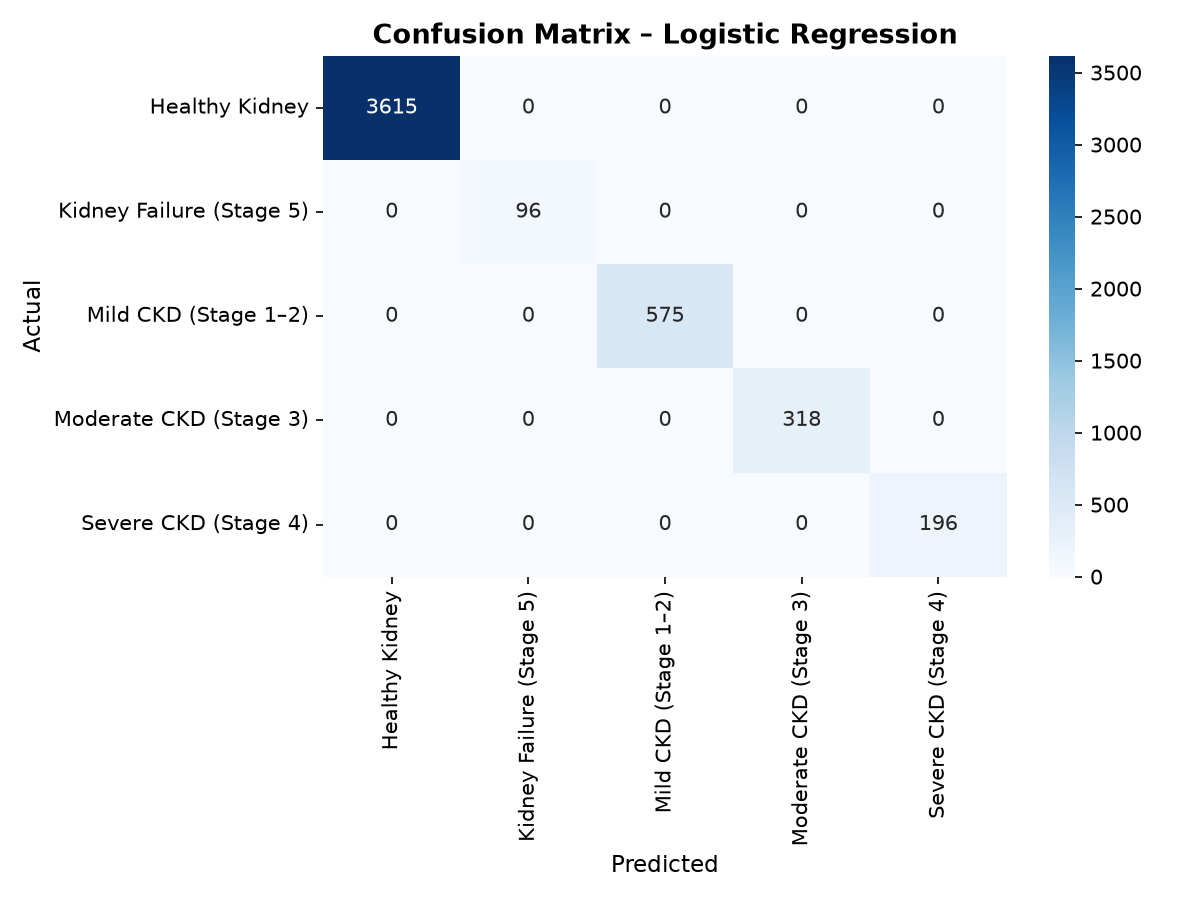
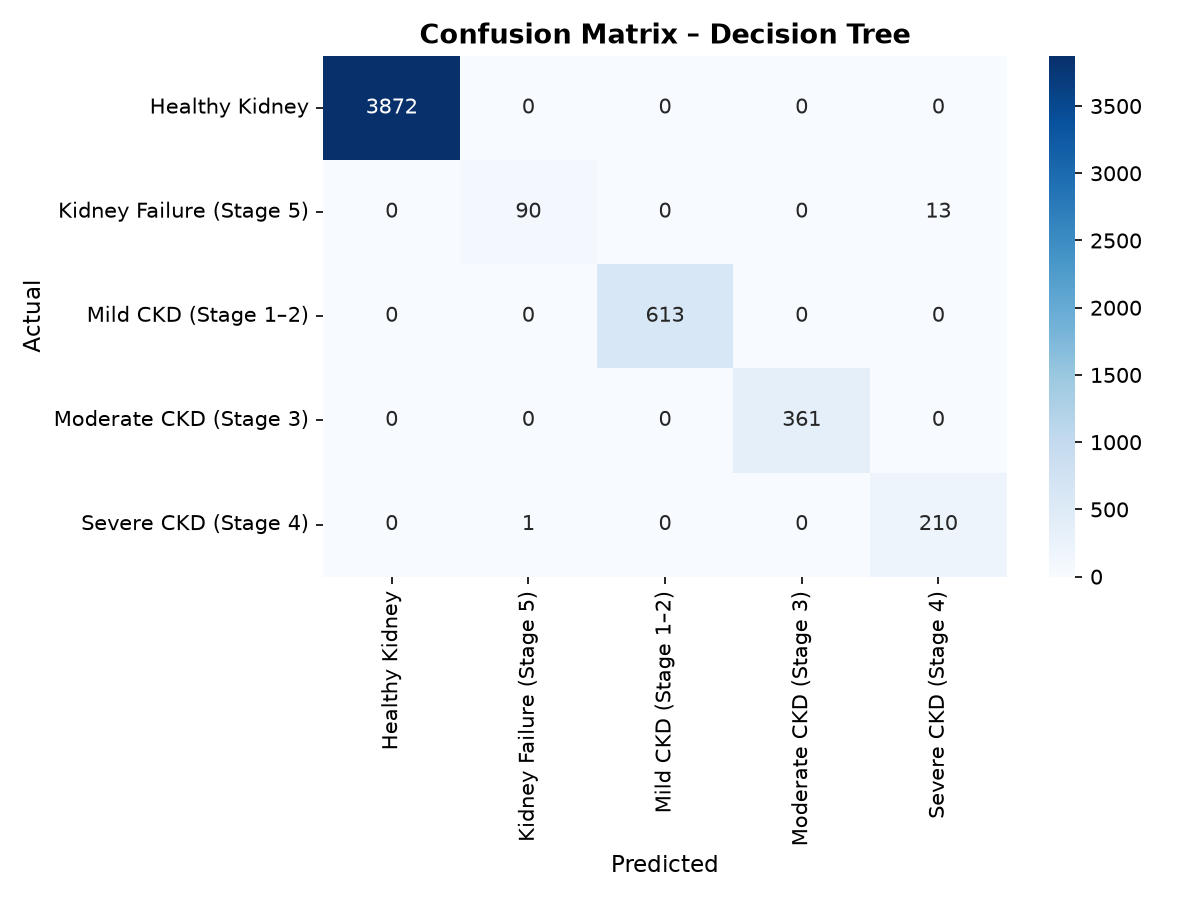
updated

diff --git a/project/train_model.py b/project/train_model.py
@@ -1,4 +1,4 @@
-# train_model.py
+ #train_model.py
 # ─────────────────────────────────────────────────────────────────────────────
 # Stand-alone script to train, evaluate, and save the best CKD classifier.
 # Run:  python train_model.py
@@ -21,6 +21,7 @@ from sklearn.tree             import DecisionTreeClassifier
 from sklearn.ensemble         import RandomForestClassifier, GradientBoostingClassifier
 from sklearn.metrics          import (accuracy_score, precision_score, recall_score,
                                       f1_score, confusion_matrix, classification_report)
+from sklearn.model_selection  import train_test_split, cross_val_score
 
 warnings.filterwarnings("ignore")
 
@@ -47,7 +48,12 @@ def train_and_evaluate():
     train_raw = load_data(TRAIN_PATH)
     test_raw  = load_data(TEST_PATH)
 
-    q = check_data_quality(train_raw)
+    full_data = pd.concat([train_raw, test_raw], ignore_index=True)
+    train_split, test_split = train_test_split(
+        full_data, test_size=0.2, random_state=42, stratify=full_data["Target"]
+    )
+
+    q = check_data_quality(train_split)
     print(f"  Training set  : {q['shape'][0]:,} rows × {q['shape'][1]} cols")
     print(f"  Missing values: {q['total_missing']}")
     print(f"  Duplicate rows: {q['duplicate_rows']}")
@@ -55,23 +61,24 @@ def train_and_evaluate():
     # ── 2. Full Preprocessing ─────────────────────────────────────────────
     print("\n[2/5] Preprocessing ...")
     X_train, X_test, y_train, y_test, encoders, scaler, class_names = \
-        preprocess_pipeline(TRAIN_PATH, TEST_PATH)
-    print("\n===== FEATURE CHECK =====")
-    print("Target column in X_train:", "Target" in X_train.columns)
-    print("Number of features:", len(X_train.columns))
-    print("Feature names:")
-    print(list(X_train.columns))
-    print("=========================\n")
+        preprocess_pipeline(train_split, test_split)
 
-    print(f"  Features : {X_train.shape[1]}")
+    print("\n===== FEATURE CHECK =====")
+    print(f"Target column in X_train: {'Target' in X_train.columns}")
+    print(f"Number of features: {X_train.shape[1]}")
+    print("Feature names:")
+    for col in X_train.columns:
+        print(f"  - {col}")
+    print()
+
     print(f"  Classes  : {class_names}")
 
     # ── 3. Define Models ──────────────────────────────────────────────────
     print("\n[3/5] Training classifiers ...")
     models = {
         "Logistic Regression":  LogisticRegression(max_iter=500, random_state=42, n_jobs=-1),
-        "Decision Tree":        DecisionTreeClassifier(max_depth=10, random_state=42),
         "Random Forest":        RandomForestClassifier(n_estimators=100, random_state=42, n_jobs=-1),
+        "Decision Tree":        DecisionTreeClassifier(max_depth=10, random_state=42),
         "Gradient Boosting":    GradientBoostingClassifier(n_estimators=100, random_state=42),
     }
 
@@ -99,7 +106,7 @@ def train_and_evaluate():
             "y_pred":    y_pred,
             "time_s":    round(time.time() - t0, 2),
         }
-        print(f"  {name:<25}  Acc={acc:.4f}  F1={f1:.4f}  ({results[name]['time_s']}s)")
+        print(f"  {name:<25}  Acc={acc:.4f}  Prec={prec:.4f}  Rec={rec:.4f}  F1={f1:.4f}  ({results[name]['time_s']}s)")
 
         if f1 > best_f1:
             best_f1    = f1
@@ -108,6 +115,22 @@ def train_and_evaluate():
 
     # ── 4. Save Best Model Bundle ─────────────────────────────────────────
     print(f"\n[4/5] Best model -> {best_name}  (F1={best_f1:.4f})")
+
+    print("\nRunning 5-Fold Cross Validation...")
+    cv_scores = cross_val_score(
+        best_model,
+        X_train,
+        y_train,
+        cv=5,
+        scoring="accuracy",
+        n_jobs=-1
+    )
+
+    print("\nCross Validation Scores:")
+    print(cv_scores)
+
+    print(f"\nAverage CV Accuracy : {cv_scores.mean():.4f}")
+    print(f"Standard Deviation  : {cv_scores.std():.4f}\n")
 
     # Build comparison metrics (exclude model/y_pred objects)
     comparison_metrics = {
@@ -129,19 +152,29 @@ def train_and_evaluate():
         "scaler":             scaler,
         "classes":            class_names,
         "features":           list(X_train.columns),
-        
-        
+        "cv_scores":          cv_scores.tolist(),
+        "cv_mean_accuracy":   float(cv_scores.mean()),
+        "cv_std_accuracy":    float(cv_scores.std()),
+        "metrics": {
+            "accuracy":       results[best_name]["accuracy"],
+            "precision":      results[best_name]["precision"],
+            "recall":         results[best_name]["recall"],
+            "f1_score":       results[best_name]["f1_score"],
+        },
+        "comparison_metrics": comparison_metrics,
+        "confusion_matrix":   cm,
+        "classification_report": report_str,
+        "class_distribution": train_split["Target"].value_counts().to_dict(),
+        "feature_names":      list(X_train.columns),
+        "train_shape":        train_split.shape,
+        "test_shape":         test_split.shape,
     }
 
     joblib.dump(bundle, MODEL_PATH)
-    
-    joblib.load(MODEL_PATH)
-    print("Bundle loaded successfully!")
-
-    print(f"  Saved → {MODEL_PATH}")
+    print(f"  Saved -> {MODEL_PATH}")
 
     # ── 5. Save Assets ────────────────────────────────────────────────────
-    print("\n[5/5] Generating plots …")
+    print("\n[5/5] Generating plots...")
 
     # Confusion Matrix
     fig, ax = plt.subplots(figsize=(8, 6))
@@ -154,7 +187,7 @@ def train_and_evaluate():
     cm_path = os.path.join(ASSETS_DIR, "confusion_matrix.png")
     fig.savefig(cm_path, dpi=150)
     plt.close(fig)
-    print(f"  Confusion matrix → {cm_path}")
+    print(f"  Confusion matrix -> {cm_path}")
 
     # Model Comparison Bar Chart
     metric_df = pd.DataFrame(
@@ -172,7 +205,24 @@ def train_and_evaluate():
     comp_path = os.path.join(ASSETS_DIR, "model_comparison.png")
     fig.savefig(comp_path, dpi=150)
     plt.close(fig)
-    print(f"  Model comparison → {comp_path}")
+    print(f"  Model comparison -> {comp_path}")
+
+    # Feature Importance (if applicable)
+    if hasattr(best_model, "feature_importances_"):
+        importances = best_model.feature_importances_
+        indices = np.argsort(importances)[::-1][:15] # Top 15
+        top_features = [list(X_train.columns)[i] for i in indices]
+        top_importances = importances[indices]
+        
+        fig, ax = plt.subplots(figsize=(10, 6))
+        sns.barplot(x=top_importances, y=top_features, ax=ax, palette="viridis")
+        ax.set_title("Top 15 Feature Importances", fontsize=13, fontweight="bold")
+        ax.set_xlabel("Importance Score")
+        plt.tight_layout()
+        fi_path = os.path.join(ASSETS_DIR, "feature_importance.png")
+        fig.savefig(fi_path, dpi=150)
+        plt.close(fig)
+        print(f"  Feature importance -> {fi_path}")
 
     print("\n" + "=" * 70)
     print("  Training complete!")

diff --git a/project/ckd_utils/preprocessing.py b/project/ckd_utils/preprocessing.py
@@ -1,3 +1,9 @@
+
+# utils/preprocessing.py
+# ─────────────────────────────────────────────────────────────────
+# Handles all data loading, cleaning, encoding, and splitting tasks.
+# ─────────────────────────────────────────────────────────────────
+
 import pandas as pd
 import numpy as np
 from sklearn.preprocessing import LabelEncoder, StandardScaler
@@ -9,8 +15,23 @@ import os
 # ---------------------------------------------------------------------------
 TARGET_COL = "Target"
 
+# The 9 features used by the patient-friendly prediction model.
+# Height and Weight are NOT in the dataset; BMI is computed in the UI and
+# passed directly. This list must match the column names in the CSV exactly.
+SELECTED_FEATURES = [
+    "Age",
+    "Gender",
+    "BMI",
+    "Systolic_BP",
+    "Diastolic_BP",
+    "Diabetes",
+    "Hypertension",
+    "Smoking_Status",
+    
+]
+
 # Columns that are binary yes/no strings
-BINARY_COLS = ["Diabetes", "Hypertension", "Smoking_Status", "Family_History_Kidney"]
+BINARY_COLS = ["Diabetes", "Hypertension", "Smoking_Status"]
 
 # Columns that are numeric 0/1 in the dataset (Gender)
 NUMERIC_CAT_COLS = ["Gender"]
@@ -126,17 +147,19 @@ def scale_features(X_train: pd.DataFrame,
     return X_train_scaled, X_test_scaled, scaler
 
 
-def preprocess_pipeline(train_path: str, test_path: str):
+def preprocess_pipeline(train_df: pd.DataFrame, test_df: pd.DataFrame):
     """
     Full preprocessing pipeline used during model training.
+    Only the columns listed in SELECTED_FEATURES (plus the target) are kept.
 
     Returns
     -------
     X_train, X_test, y_train, y_test, encoders, scaler, class_names
     """
-    # Load
-    train_df = load_data(train_path)
-    test_df  = load_data(test_path)
+    # ── Keep only selected features + target ──────────────────────────────
+    keep_cols = SELECTED_FEATURES + [TARGET_COL]
+    train_df = train_df[[c for c in keep_cols if c in train_df.columns]].copy()
+    test_df  = test_df[[c for c in keep_cols if c in test_df.columns]].copy()
 
     # Drop duplicates
     train_df = train_df.drop_duplicates()
@@ -185,6 +208,7 @@ def preprocess_single_input(input_dict: dict, encoders: dict, scaler) -> pd.Data
     Parameters
     ----------
     input_dict : dict   Keys = feature column names, values = raw user inputs.
+                        Must contain exactly the keys in SELECTED_FEATURES.
     encoders   : dict   Fitted encoders from training.
     scaler              Fitted StandardScaler from training.
 
@@ -193,6 +217,9 @@ def preprocess_single_input(input_dict: dict, encoders: dict, scaler) -> pd.Data
     pd.DataFrame  (1 row, scaled)
     """
     row = pd.DataFrame([input_dict])
+
+    # Ensure column order matches training
+    row = row[SELECTED_FEATURES]
 
     # Encode binary columns
     for col in BINARY_COLS:

diff --git a/project/test_save.py b/project/test_save.py
@@ -1,18 +1,22 @@
+import os
 import joblib
 from sklearn.linear_model import LogisticRegression
-from utils.preprocessing import preprocess_pipeline
+from ckd_utils.preprocessing import preprocess_pipeline
 
-TRAIN_PATH = "dataset/Training_CKD_dataset.csv"
-TEST_PATH = "dataset/Testing_CKD_dataset.csv"
+BASE_DIR = os.path.dirname(os.path.abspath(__file__))
+TRAIN_PATH = os.path.join(BASE_DIR, "dataset", "Training_CKD_dataset.csv")
+TEST_PATH = os.path.join(BASE_DIR, "dataset", "Testing_CKD_dataset.csv")
+MODEL_PATH = os.path.join(BASE_DIR, "model", "test.pkl")
 
 X_train, X_test, y_train, y_test, encoders, scaler, class_names = preprocess_pipeline(TRAIN_PATH, TEST_PATH)
 
 model = LogisticRegression(max_iter=500)
 model.fit(X_train, y_train)
 
-joblib.dump(model, "model/test.pkl")
+os.makedirs(os.path.dirname(MODEL_PATH), exist_ok=True)
+joblib.dump(model, MODEL_PATH)
 
 print("Saved successfully")
 
-loaded = joblib.load("model/test.pkl")
+loaded = joblib.load(MODEL_PATH)
 print("Loaded successfully:", loaded)